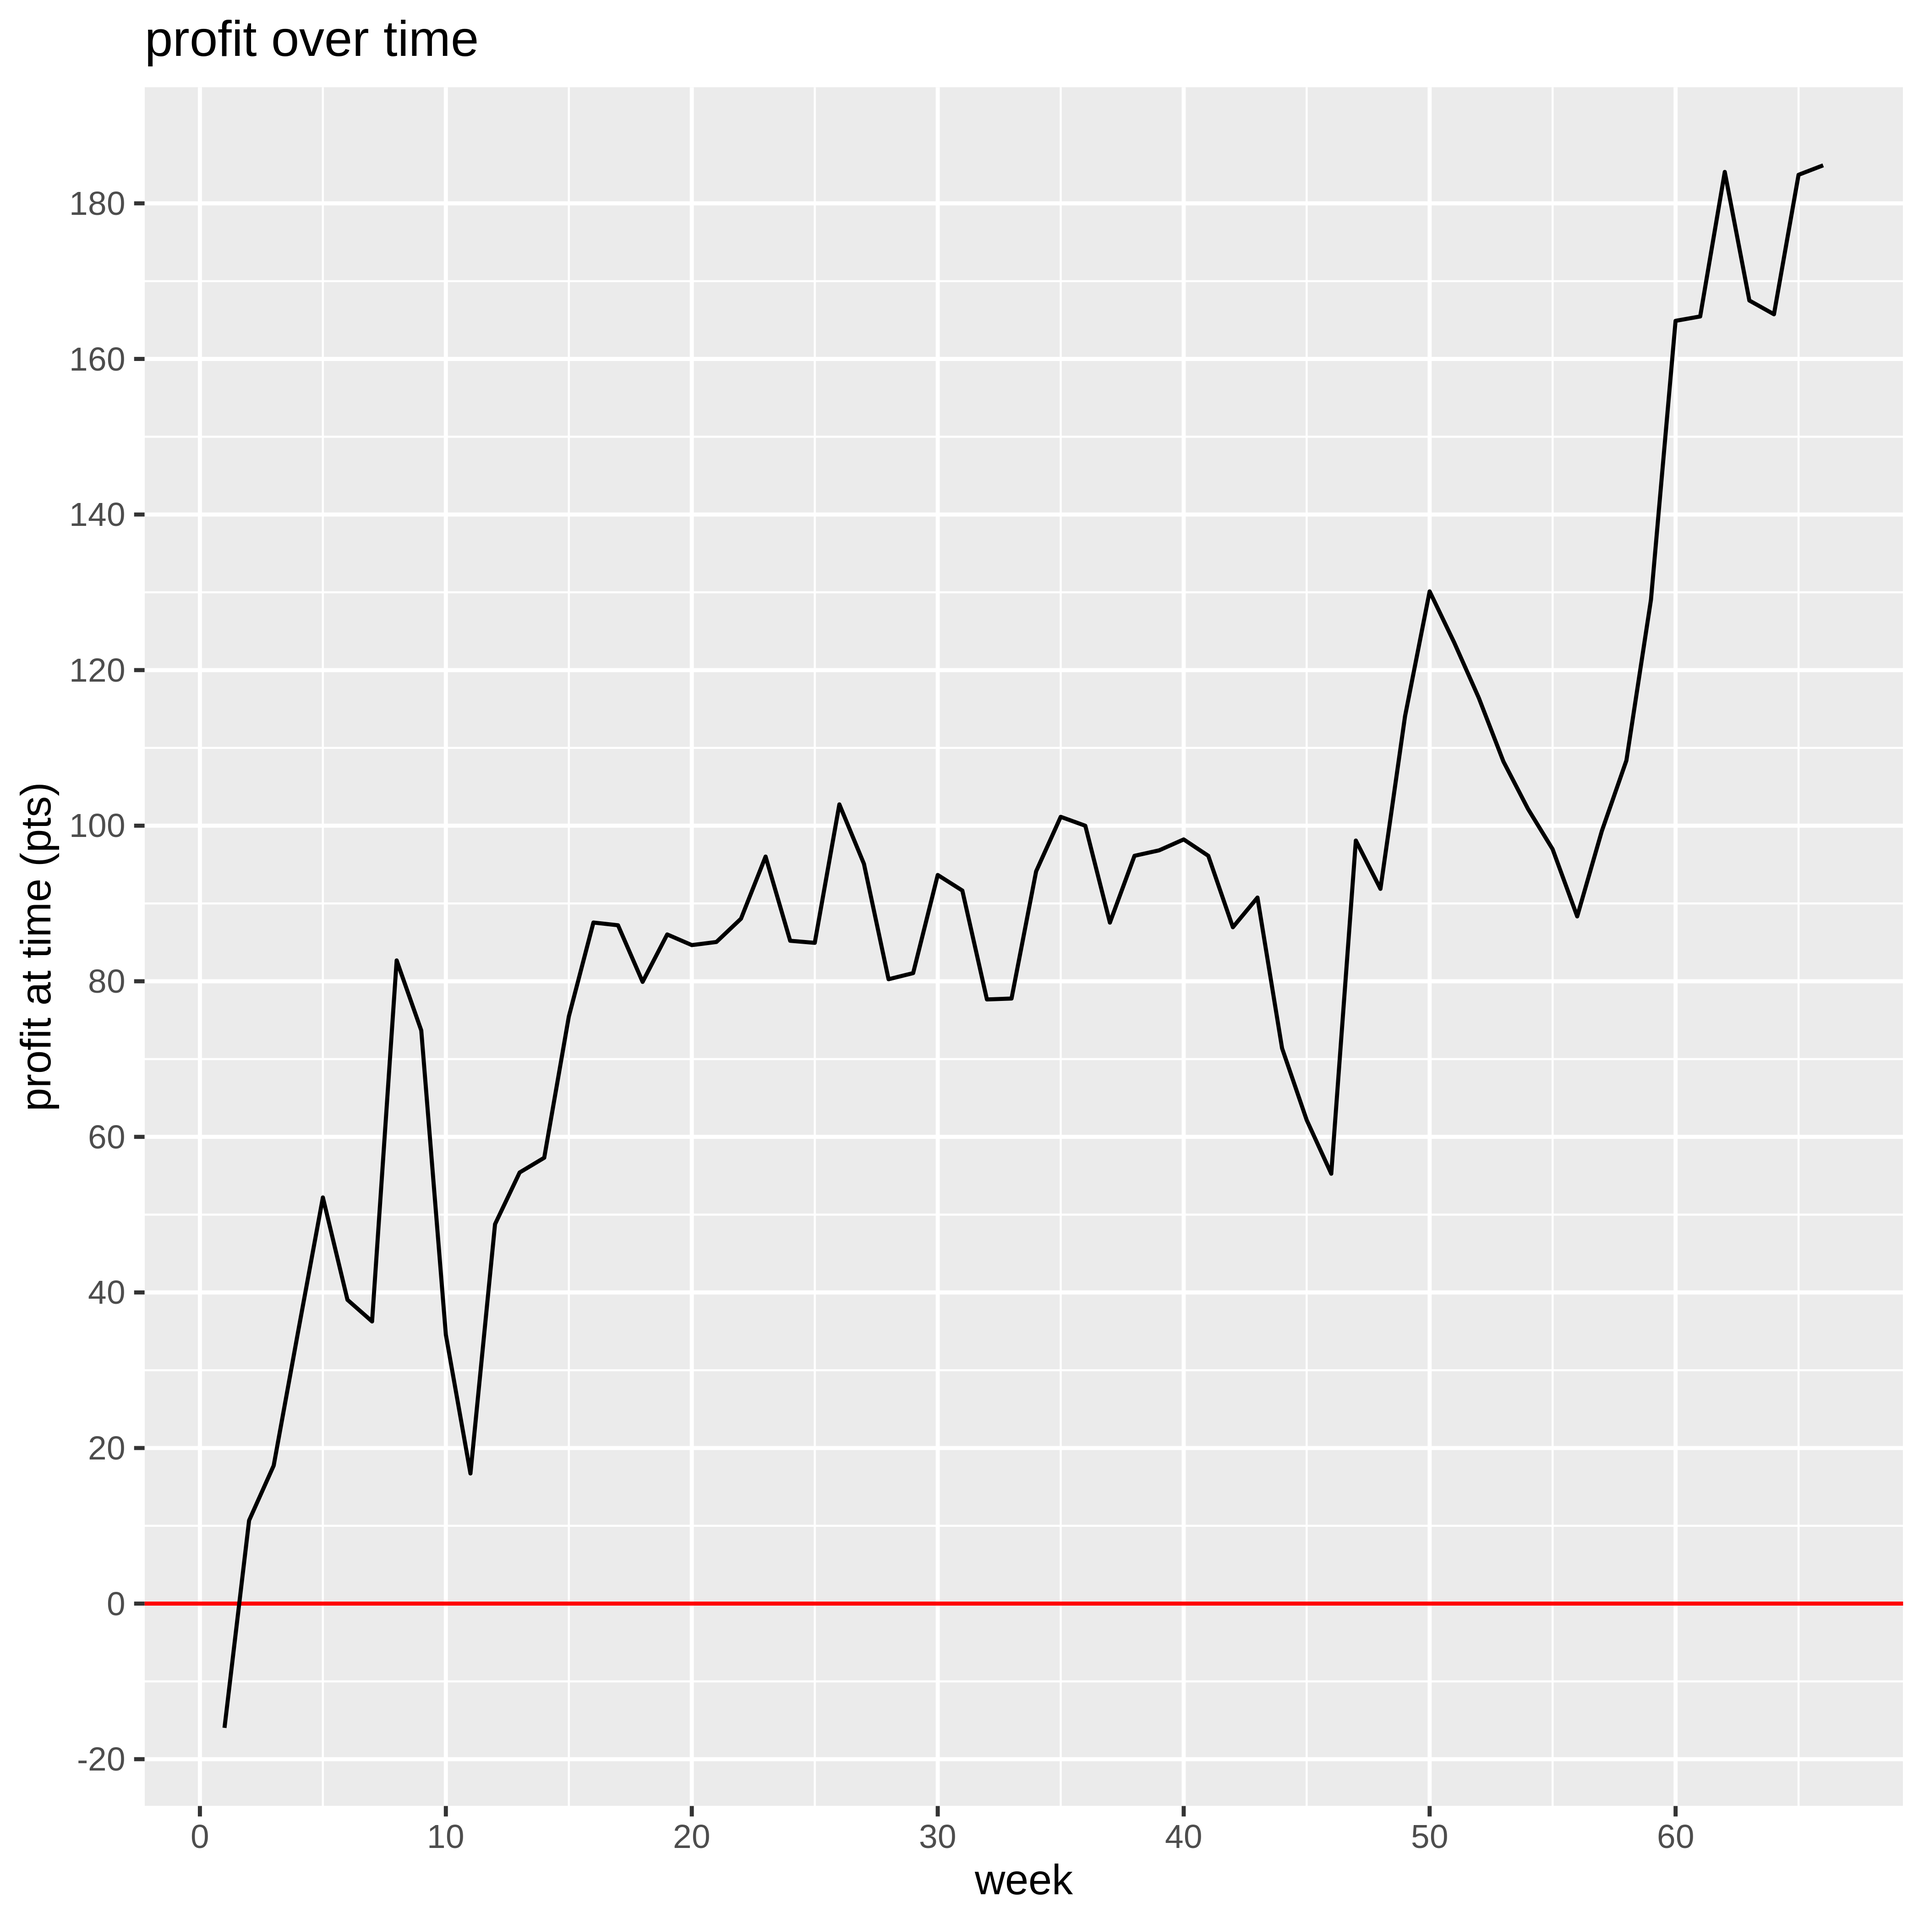
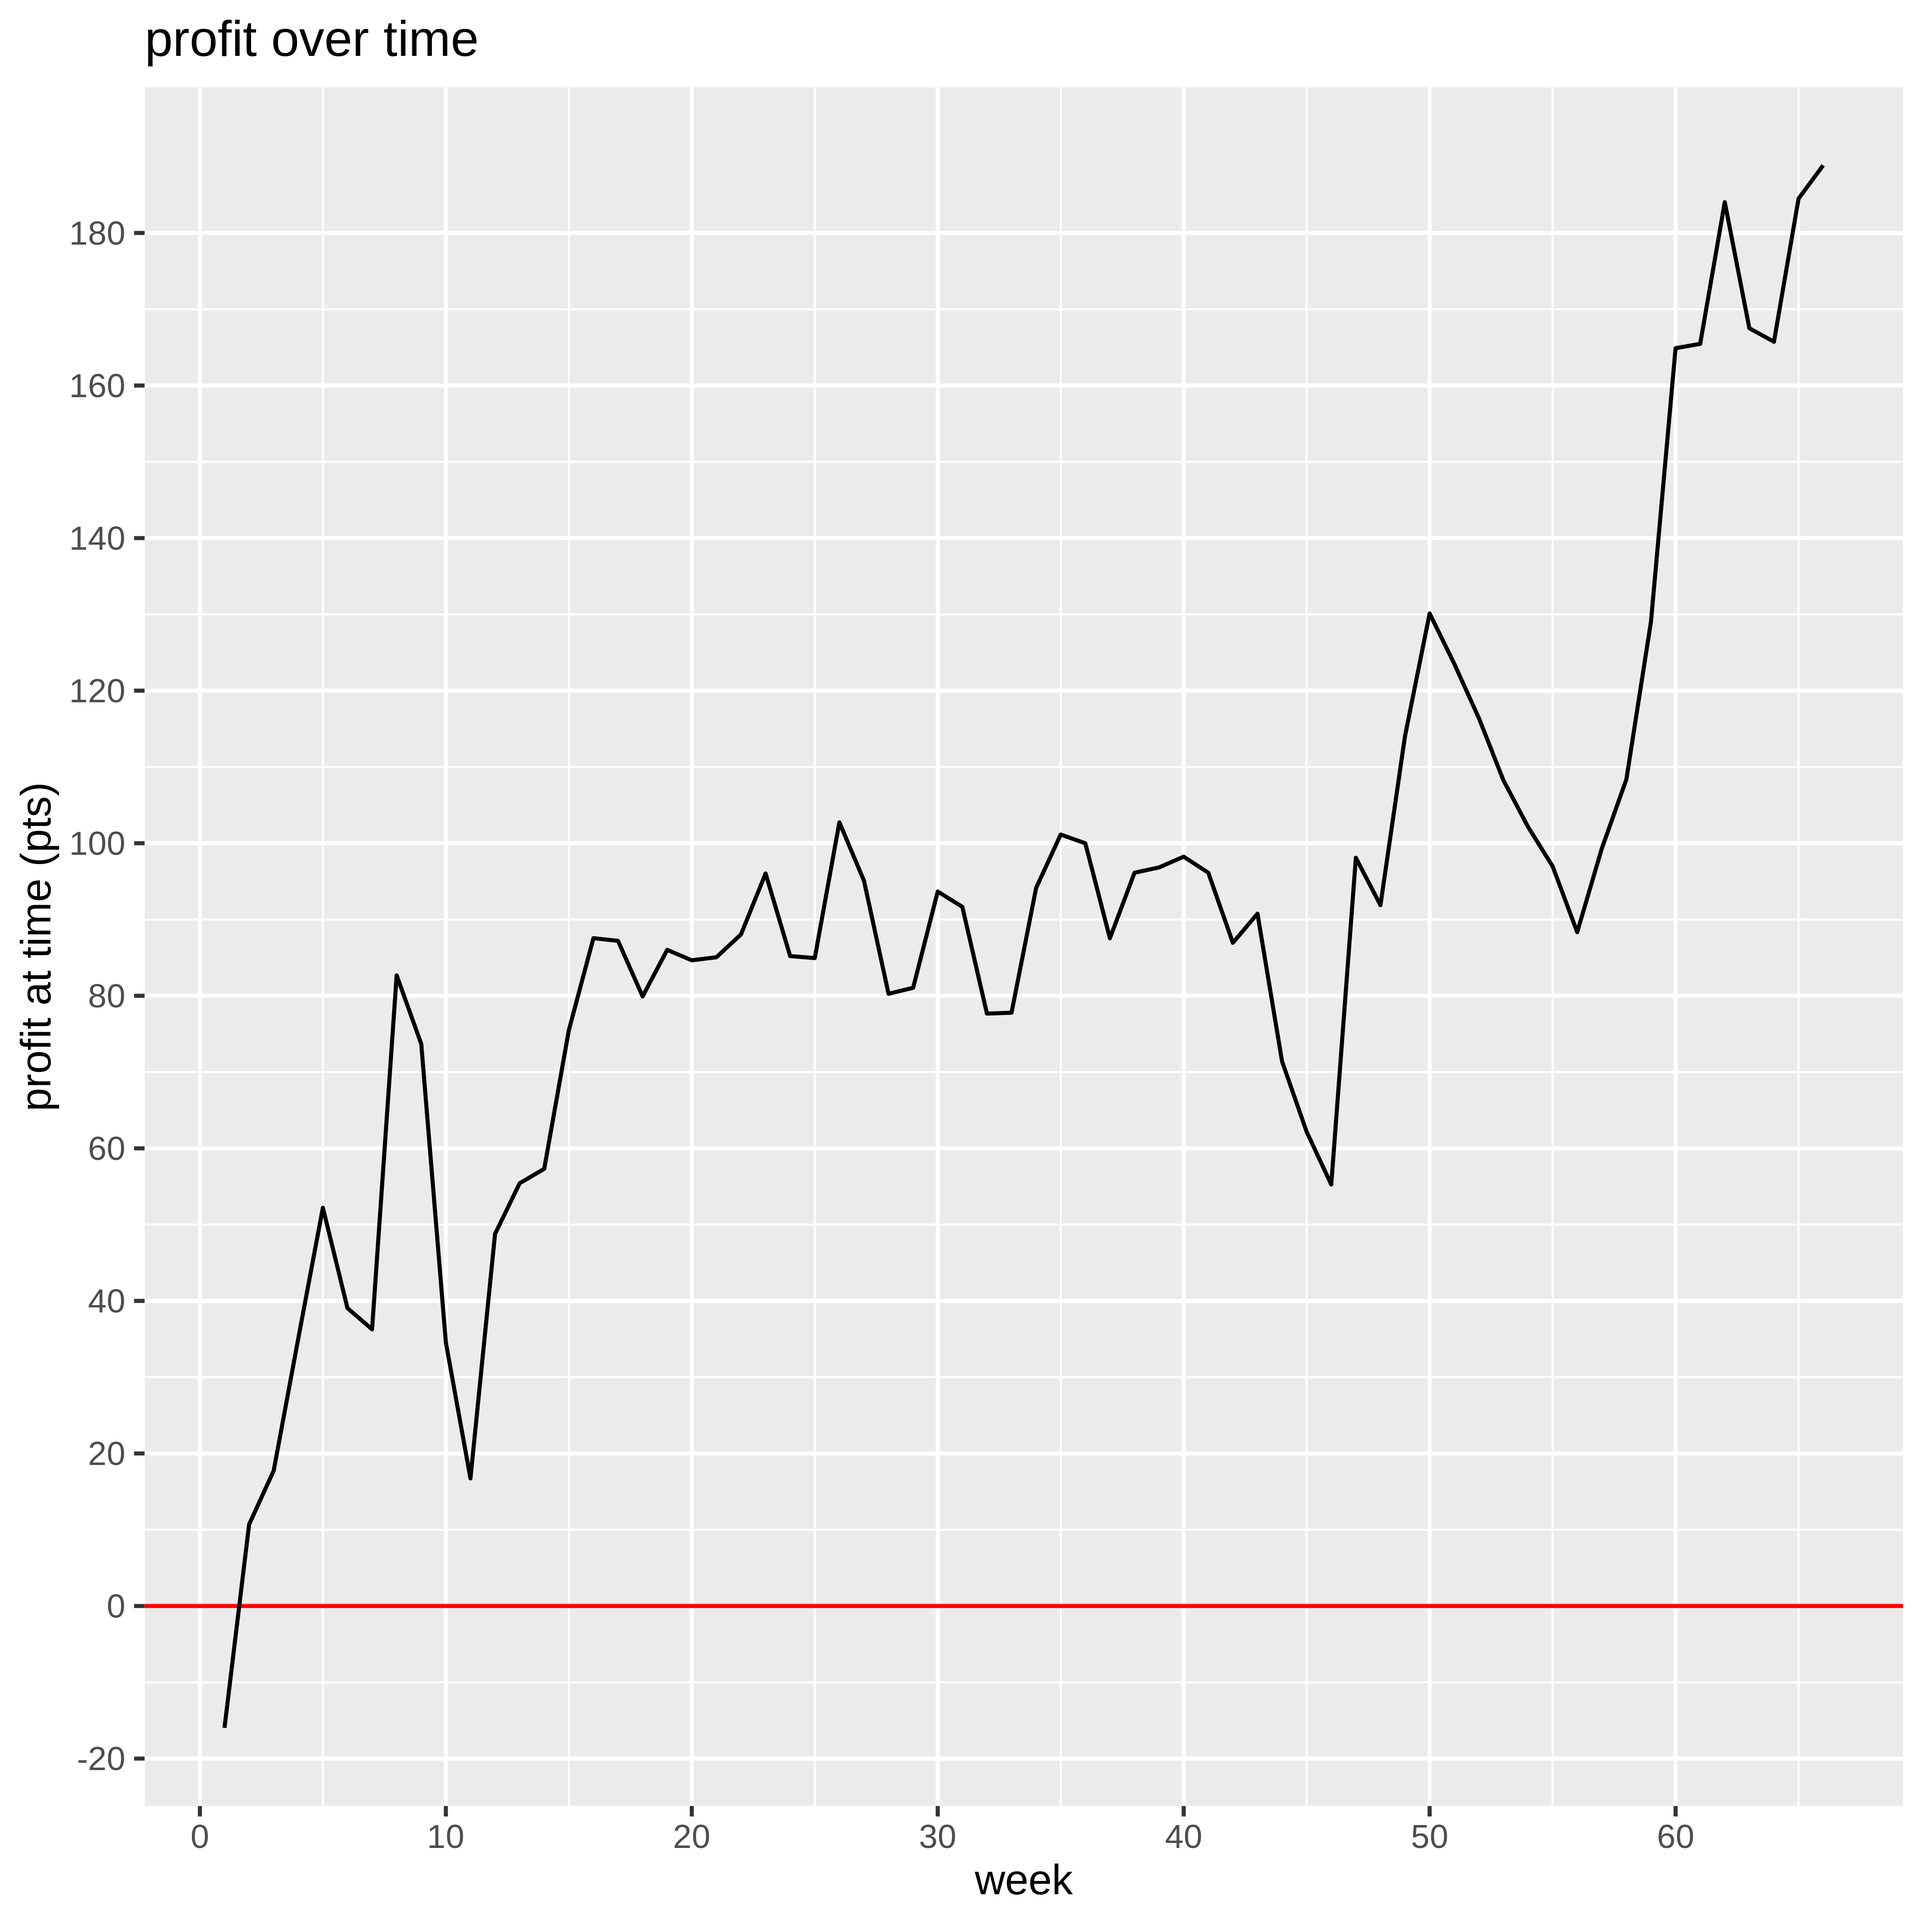
Daily auto build of report.md. Travis build: 1196.

diff --git a/report.md b/report.md
@@ -1,6 +1,6 @@
 ---
 title: "report"
-date: "2019-07-18 17:52:28"
+date: "2019-07-19 17:52:39"
 output: github_document
 ---
 
@@ -17,9 +17,9 @@ output: github_document
 
 
 
-We put in €9000 and we've made a profit of €9,046 on the bets. However, we've paid three subscriptions of £600 which amounts to €1,993 so our net profit is €7,053. That's a return on capital of 78.37%. This gives us a current bank of €16053.
+We put in €9000 and we've made a profit of €9,419 on the bets. However, we've paid three subscriptions of £600 which amounts to €1,999 so our net profit is €7,420. That's a return on capital of 82.44%. This gives us a current bank of €16420.
 
-We have wagered a total of €107,226 and made a betting profit of €9,046, which gives us a betting ROI of 8.44%.
+We have wagered a total of €107,743 and made a betting profit of €9,419, which gives us a betting ROI of 8.74%.
 
 
 # Have any bookies been riddled?
@@ -27,14 +27,14 @@ We have wagered a total of €107,226 and made a betting profit of €9,046, whi
 
 |bookmaker    |Aidan |David |Rory |total |
 |:------------|:-----|:-----|:----|:-----|
-|Matchbook    |+70   |0     |+5   |+75   |
-|Unibet       |+18   |0     |+55  |+72   |
+|Matchbook    |+73   |0     |+5   |+78   |
+|Unibet       |+18   |0     |+55  |+73   |
+|Paddy Power  |+50   |0     |+1   |+51   |
 |Betfred      |+20   |0     |+29  |+49   |
-|Paddy Power  |+48   |0     |+1   |+49   |
 |Bet365       |0     |-3    |+36  |+36   |
-|SkyBet       |+20   |0     |-1   |+19   |
+|SkyBet       |+20   |0     |-1   |+20   |
 |SportingBet  |0     |+2    |+10  |+10   |
-|10Bet        |+14   |0     |-6   |+8    |
+|10Bet        |+15   |0     |-6   |+9    |
 |NA           |0     |0     |+7   |+7    |
 |Coral        |+5    |-2    |-1   |+5    |
 |SpreadEx     |+3    |0     |0    |+3    |
@@ -54,7 +54,7 @@ We have wagered a total of €107,226 and made a betting profit of €9,046, whi
 |Boylesports  |-6    |0     |0    |-6    |
 |SportsPesa   |0     |0     |-6   |-6    |
 |188Bet       |-3    |0     |-4   |-6    |
-|William Hill |-3    |0     |-4   |-7    |
+|William Hill |-4    |0     |-4   |-8    |
 |BetStars     |-2    |0     |-9   |-10   |
 |RedZone      |0     |0     |-11  |-11   |
 |Ladbrokes    |0     |+5    |-18  |-18   |
@@ -66,7 +66,7 @@ We have wagered a total of €107,226 and made a betting profit of €9,046, whi
 
 
 
-We've had winnings of 1595 points and losses of 1413 points, so even if our odds were only a fraction 1413 / 1595 = 0.89 of what we actually got, we'd still be breaking even.
+We've had winnings of 1604 points and losses of 1416 points, so even if our odds were only a fraction 1416 / 1604 = 0.88 of what we actually got, we'd still be breaking even.
 
 
 # Winners and losers
@@ -76,10 +76,10 @@ Here's a count of the number of winners, losers, and places we've had.
 
 |result                  |    n|percent |
 |:-----------------------|----:|:-------|
-|Win only Lose           | 1115|71%     |
-|Win only Win            |  226|14%     |
+|Win only Lose           | 1120|71%     |
+|Win only Win            |  231|15%     |
 |Each way Lose           |  108|7%      |
-|Win only Unmatched Loss |   52|3%      |
+|Win only Unmatched Loss |   53|3%      |
 |Each way Place          |   37|2%      |
 |Each way Win            |   19|1%      |
 |Win only Unmatched Win  |   13|1%      |
@@ -90,8 +90,8 @@ Here's a count of the number of winners, losers, and places we've had.
 
 
 
-* We've made 785 _win only_ bets, on which we've made a profit of €8,630. 
-* We've made 103 _each way_ bets, on which we've made a profit of €416.
+* We've made 789 _win only_ bets, on which we've made a profit of €9,005. 
+* We've made 103 _each way_ bets, on which we've made a profit of €414.
 
 
 # Unmatched Bets
@@ -100,4 +100,4 @@ Here's a count of the number of winners, losers, and places we've had.
 
 We'll consider only win only bets (and not each way bets) in this section.
 
-Of the bets that have been matched, there have been 144 winners and 632 losers. That means that 19% of matched bets have been winners. Of the bets that have not been matched, there have been 13 winners and 52 losers. That means that 20% of unmatched bets have been winners. Unmatched bets have saved us 50 points on losers but cost us 81 on winners, whereas getting better odds on posted bets which were matched has made us 66 points (where I have assumed that when we post, we get 20% better odds than if we'd just taken best available at the time). So overall, choosing to post when we do (rather than taking the bad bbest available odds) has saved us 35 points.
+Of the bets that have been matched, there have been 145 winners and 634 losers. That means that 19% of matched bets have been winners. Of the bets that have not been matched, there have been 13 winners and 53 losers. That means that 20% of unmatched bets have been winners. Unmatched bets have saved us 51 points on losers but cost us 81 on winners, whereas getting better odds on posted bets which were matched has made us 67 points (where I have assumed that when we post, we get 20% better odds than if we'd just taken best available at the time). So overall, choosing to post when we do (rather than taking the bad bbest available odds) has saved us 37 points.
